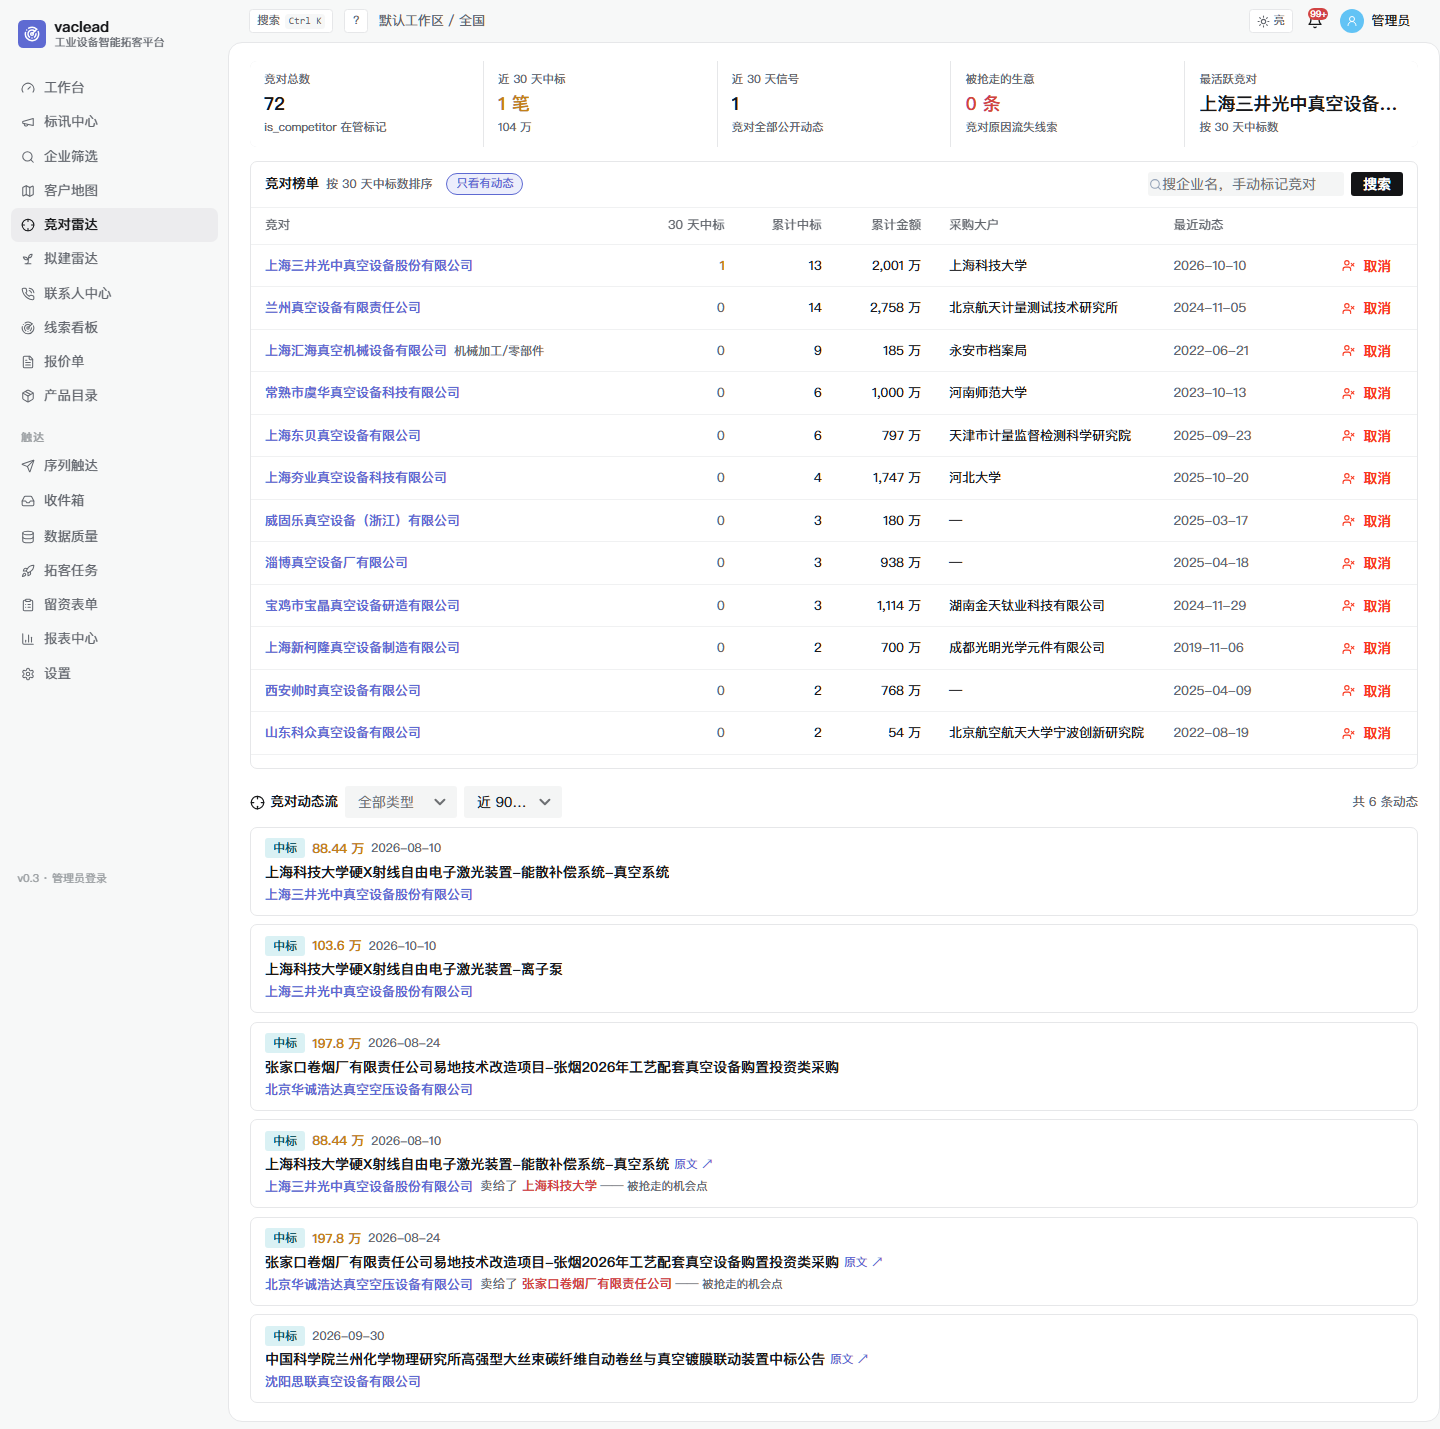
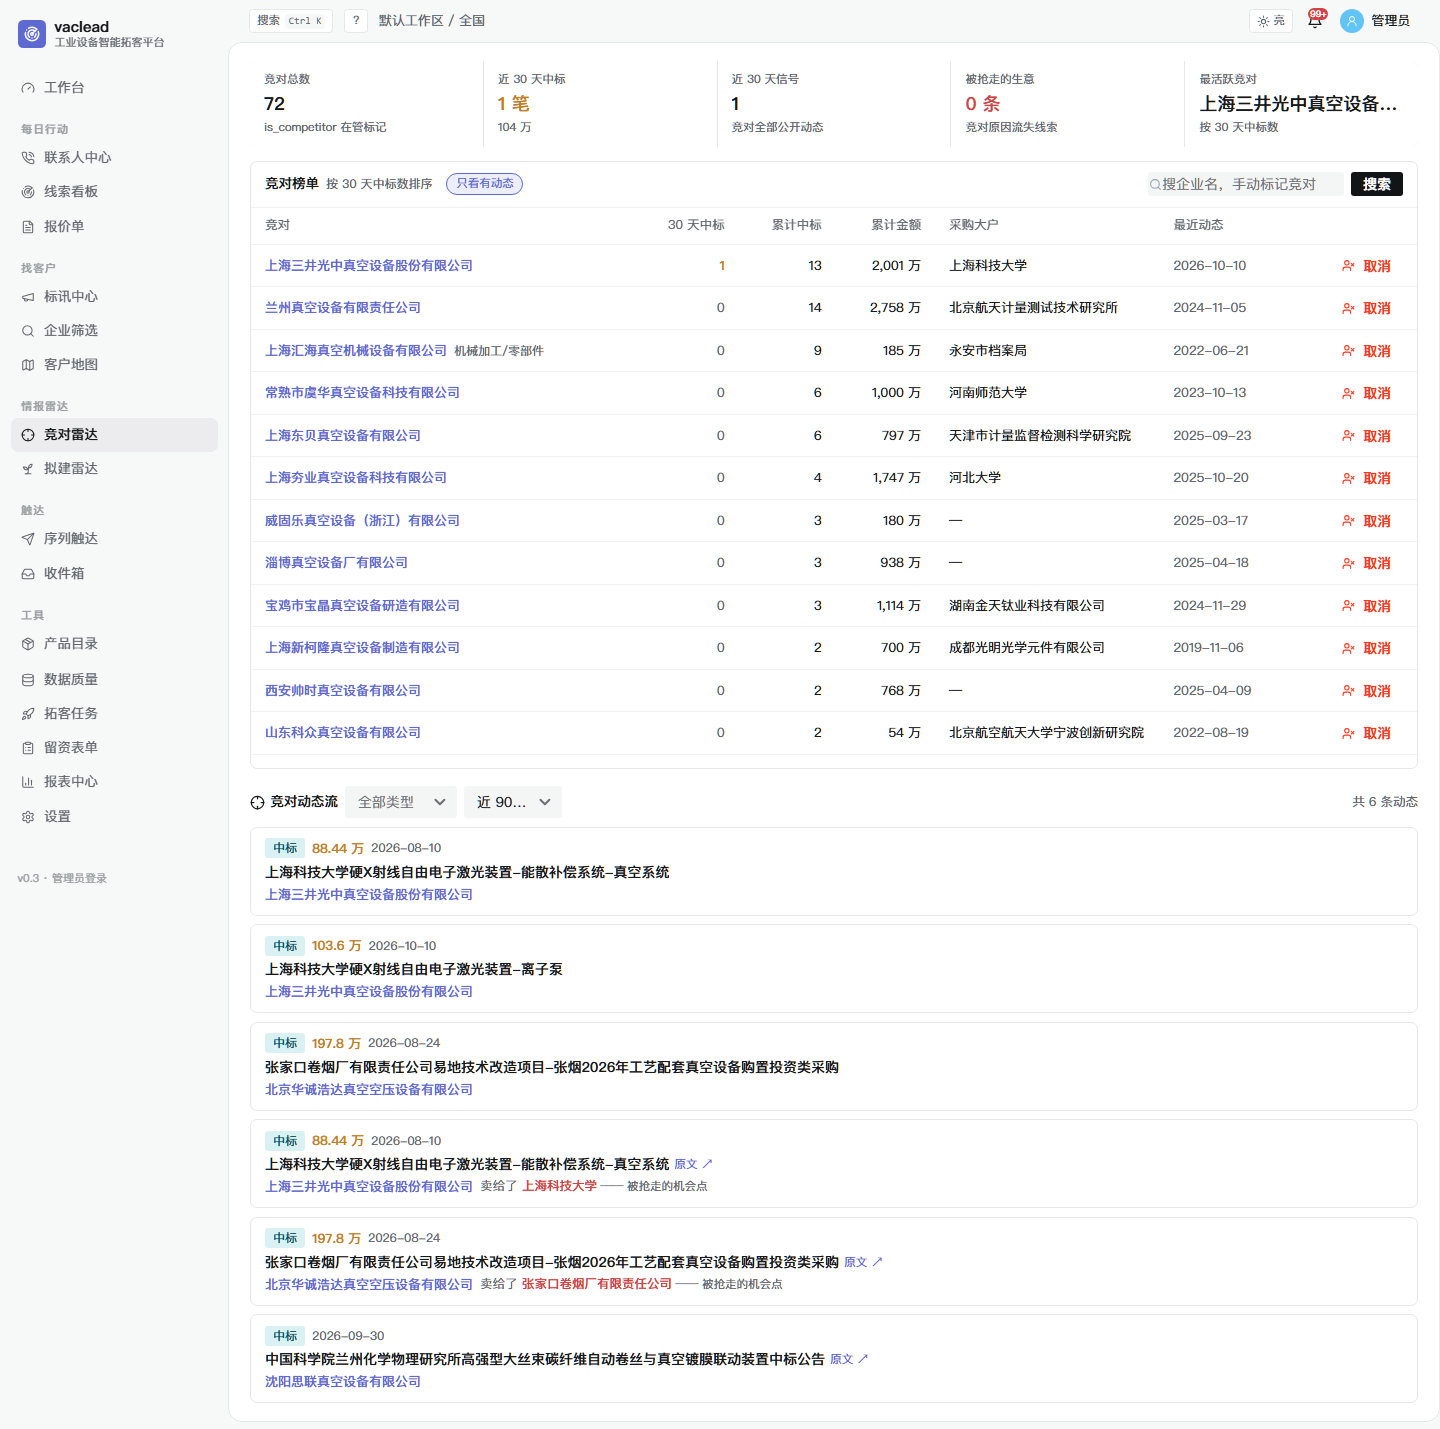
SPEC-CG 销售一日台轮: 系统为谁服务反思落地 三清单合一(今日作战/我的待办/待跟进事项合并为今日行动 my-day扩展7天内待办+约定回访到期源 勾选就地完成+快速添加) 导航按使用顺序6分组 块序重排任务在先分析下沉 E2E断言同步

Changed region(s): [[0.0, 0.0616, 0.0625, 0.585]]

diff --git a/frontend/app/page.tsx b/frontend/app/page.tsx
@@ -324,9 +324,7 @@ export default function DashboardPage() {
     { key: "recs", label: "今日推荐" },
     { key: "trend", label: "信号趋势" },
     { key: "analytics", label: "分析列（健康度/预测/漏斗/分布）" },
-    { key: "battle", label: "今日作战" },
-    { key: "todos", label: "我的待办" },
-    { key: "followups", label: "待跟进事项" },
+    { key: "battle", label: "今日行动" },
     { key: "signals", label: "最新信号" },
   ];
   const [dashHidden, setDashHidden] = useState<string[]>([]);
@@ -693,6 +691,69 @@ export default function DashboardPage() {
       </section>
       )}
 
+
+      {/* 今日行动（SPEC-CG CG1：my-day 优先级清单 + 待办勾选 + 快速添加——三清单合一） */}
+          {vis("battle") && (<>
+          <div className="mb-2 flex items-baseline justify-between">
+            <h2 className="text-[15px] font-medium text-[var(--ink)]">今日行动</h2>
+            <span className="text-[12px] text-[var(--muted)]">
+              {myDay.length > 0 ? `${myDay.length} 项待处理` : "今天没有必须处理的事"}
+            </span>
+          </div>
+          <div className="mb-2 flex gap-2">
+            <input
+              value={newTodo}
+              onChange={(e) => setNewTodo(e.target.value)}
+              onKeyDown={(e) => {
+                if (e.key === "Enter") void addTodo();
+              }}
+              placeholder="记一件事，如：周三前回访北大设备处…"
+              className="h-8 flex-1 rounded-lg border border-[var(--border)] bg-white px-3 text-[13px] outline-none focus:border-[var(--accent)]"
+            />
+            <Button size="small" theme="outline" onClick={() => void addTodo()}>
+              添加
+            </Button>
+          </div>
+          {myDay.length > 0 ? (
+            <div className="mb-3 space-y-1.5">
+              {myDay.slice(0, 12).map((m) => (
+                <div
+                  key={`${m.kind}-${m.id}`}
+                  className="flex items-center gap-2.5 rounded-lg border border-[var(--border)] bg-white px-3 py-2"
+                >
+                  {(m.kind === "overdue_todo" || m.kind === "due_today") && (
+                    <input
+                      type="checkbox"
+                      checked={false}
+                      onChange={() => void toggleTodo(m.id)}
+                      className="h-4 w-4 shrink-0 cursor-pointer accent-[var(--accent)]"
+                    />
+                  )}
+                  <span
+                    className={`shrink-0 rounded px-1.5 py-0.5 text-[10.5px] font-medium ${
+                      m.priority === 0
+                        ? "bg-[color:var(--negative)]/10 text-[var(--negative)]"
+                        : m.priority === 1
+                          ? "bg-[color:var(--accent)]/10 text-[var(--accent)]"
+                          : "bg-[var(--raised)] text-[var(--muted)]"
+                    }`}
+                  >
+                    {{ overdue_todo: "逾期", due_today: "今日", upcoming_todo: "后续", stale_intent: "久未跟", fresh_lead: "新线索", rule_hits: "自动化", due_soon_followup: "该回访" }[m.kind] ?? m.kind}
+                  </span>
+                  <span className="min-w-0 flex-1 truncate text-[13px] text-[var(--ink)]" title={m.title}>
+                    {m.title}
+                  </span>
+                  <span className="shrink-0 text-[11.5px] text-[var(--muted)]">{m.hint}</span>
+                </div>
+              ))}
+            </div>
+          ) : (
+            <div className="mb-3 rounded-lg border border-dashed border-[var(--border)] px-4 py-6 text-center text-[12.5px] text-[var(--muted)]">
+              今天没有必须处理的事 —— 打几个「今日推荐」里的电话，或在上面记一件事
+            </div>
+          )}
+          </>)}
+
       {/* 主趋势 + 右列（漏斗/来源） */}
       <div className="mt-5 grid grid-cols-1 items-start gap-6 xl:grid-cols-[1fr_360px]">
         {vis("trend") && (
@@ -864,143 +925,8 @@ export default function DashboardPage() {
       {/* 待跟进 + 最新信号 */}
       <div className="mt-5 grid grid-cols-1 gap-6 xl:grid-cols-[1fr_360px]">
         <div>
-          {/* 今日作战清单（SPEC-G G5：四源合并——逾期/到期/久未跟/高分新线索/规则命中） */}
-          {vis("battle") && (<>
-          <div className="mb-2 flex items-baseline justify-between">
-            <h2 className="text-[15px] font-medium text-[var(--ink)]">今日作战</h2>
-            <span className="text-[12px] text-[var(--muted)]">
-              {myDay.length > 0 ? `${myDay.length} 项待处理` : "今天没有必须处理的事"}
-            </span>
-          </div>
-          {myDay.length > 0 && (
-            <div className="mb-3 space-y-1.5">
-              {myDay.slice(0, 6).map((m) => (
-                <div
-                  key={`${m.kind}-${m.id}`}
-                  className="flex items-center gap-2.5 rounded-lg border border-[var(--border)] bg-white px-3 py-2"
-                >
-                  <span
-                    className={`shrink-0 rounded px-1.5 py-0.5 text-[10.5px] font-medium ${
-                      m.priority === 0
-                        ? "bg-[color:var(--negative)]/10 text-[var(--negative)]"
-                        : m.priority === 1
-                          ? "bg-[color:var(--accent)]/10 text-[var(--accent)]"
-                          : "bg-[var(--raised)] text-[var(--muted)]"
-                    }`}
-                  >
-                    {{ overdue_todo: "逾期", due_today: "今日", stale_intent: "久未跟", fresh_lead: "新线索", rule_hits: "自动化" }[m.kind] ?? m.kind}
-                  </span>
-                  <span className="min-w-0 flex-1 truncate text-[13px] text-[var(--ink)]" title={m.title}>
-                    {m.title}
-                  </span>
-                  <span className="shrink-0 text-[11.5px] text-[var(--muted)]">{m.hint}</span>
-                </div>
-              ))}
-            </div>
-          )}
-          </>)}
 
-          {vis("todos") && (<>
-          <div className="mb-2 flex items-baseline justify-between">
-            <h2 className="text-[15px] font-medium text-[var(--ink)]">我的待办</h2>
-            <span className="text-[12px] text-[var(--muted)]">
-              {overdue.length > 0 && (
-                <span className="mr-2 text-[var(--negative)]">逾期 {overdue.length}</span>
-              )}
-              {dueToday.length > 0 && <span className="mr-2">今日 {dueToday.length}</span>}
-              后续 {upcoming.length}
-            </span>
-          </div>
-          <div className="mb-2 flex gap-2">
-            <input
-              value={newTodo}
-              onChange={(e) => setNewTodo(e.target.value)}
-              onKeyDown={(e) => {
-                if (e.key === "Enter") void addTodo();
-              }}
-              placeholder="新增待办，如：周三前回访北大设备处…"
-              className="h-8 flex-1 rounded-lg border border-[var(--border)] bg-white px-3 text-[13px] outline-none focus:border-[var(--accent)]"
-            />
-            <Button size="small" theme="outline" onClick={() => void addTodo()}>
-              添加
-            </Button>
-          </div>
-          <div className="mb-5 max-h-[300px] space-y-1.5 overflow-auto">
-            {openTodos.length === 0 && (
-              <div className="rounded-lg border border-dashed border-[var(--border)] px-4 py-6 text-center text-[12.5px] text-[var(--muted)]">
-                暂无待办 —— 自动化规则「自动建待办」会在这里出现
-              </div>
-            )}
-            {[...overdue, ...dueToday, ...upcoming].slice(0, 12).map((t) => (
-              <div
-                key={t.id}
-                className="flex items-center gap-2.5 rounded-lg border border-[var(--border)] bg-white px-3 py-2"
-              >
-                <input
-                  type="checkbox"
-                  checked={false}
-                  onChange={() => void toggleTodo(t.id)}
-                  className="h-4 w-4 cursor-pointer accent-[var(--accent)]"
-                />
-                <span className="min-w-0 flex-1 truncate text-[13px] text-[var(--ink)]" title={t.title}>
-                  {t.title}
-                </span>
-                {t.source === "automation" && (
-                  <span className="shrink-0 rounded bg-[color:var(--accent)]/10 px-1.5 py-0.5 text-[10.5px] text-[var(--accent)]">
-                    自动
-                  </span>
-                )}
-                {t.due_date && (
-                  <span
-                    className={`shrink-0 text-[11.5px] tabular-nums ${
-                      t.due_date < todayStr ? "font-medium text-[var(--negative)]" : "text-[var(--muted)]"
-                    }`}
-                  >
-                    {t.due_date.slice(5)}
-                  </span>
-                )}
-              </div>
-            ))}
-          </div>
-          </>)}
 
-          {vis("followups") && (<>
-          <div className="mb-2 flex items-baseline justify-between">
-            <h2 className="text-[15px] font-medium text-[var(--ink)]">待跟进事项</h2>
-            <button
-              onClick={() => router.push("/leads")}
-              className="flex cursor-pointer items-center gap-1 border-0 bg-transparent p-0 text-[13px] text-[var(--accent)] hover:underline"
-            >
-              全部线索 <ArrowRight size={12} />
-            </button>
-          </div>
-          <Table<DashboardData["pending_followups"][number]>
-            rowKey="lead_id"
-            size="middle"
-            loading={loading}
-            dataSource={data?.pending_followups ?? []}
-            pagination={false}
-            empty="暂无待跟进 —— 从企业筛选页把高分客户转为线索"
-            columns={[
-              {
-                title: "企业",
-                dataIndex: "enterprise_name",
-                render: (v: string) => <span className="font-medium text-[var(--ink)]">{v}</span>,
-              },
-              {
-                title: "下一步",
-                dataIndex: "next_action",
-                render: (v: string) => v || <span className="text-[#9ca0a3]">待规划</span>,
-              },
-              {
-                title: "约定时间",
-                dataIndex: "next_time",
-                width: 150,
-                render: (v: string) => (v ? String(v).slice(0, 16).replace("T", " ") : "—"),
-              },
-            ]}
-          />
-          </>)}
         </div>
 
         {vis("signals") && (

diff --git a/frontend/components/AppShell.tsx b/frontend/components/AppShell.tsx
@@ -34,18 +34,23 @@ import { api, getToken, logout } from "@/lib/api";
 import { useRouter as useNextRouter } from "next/navigation";
 import { BRAND, PAGE_TITLES } from "@/lib/theme";
 
-const NAV = [
-  { href: "/", label: "工作台", icon: Gauge },
-  { href: "/signals", label: "标讯中心", icon: Megaphone },
-  { href: "/enterprises", label: "企业筛选", icon: Search },
-  { href: "/map", label: "客户地图", icon: Map },
-  { href: "/competitors", label: "竞对雷达", icon: Crosshair },
-  { href: "/proposals", label: "拟建雷达", icon: Sprout },
+// SPEC-CG 导航分组：按"销售一天的使用顺序"组织——任务在先，情报在后
+const NAV = [{ href: "/", label: "工作台", icon: Gauge }];
+const DAILY_NAV = [
   { href: "/contacts", label: "联系人中心", icon: PhoneCall },
   { href: "/leads", label: "线索看板", icon: Radar },
   { href: "/quotes", label: "报价单", icon: FileText },
-  { href: "/products", label: "产品目录", icon: Package },
 ];
+const FIND_NAV = [
+  { href: "/signals", label: "标讯中心", icon: Megaphone },
+  { href: "/enterprises", label: "企业筛选", icon: Search },
+  { href: "/map", label: "客户地图", icon: Map },
+];
+const RADAR_NAV = [
+  { href: "/competitors", label: "竞对雷达", icon: Crosshair },
+  { href: "/proposals", label: "拟建雷达", icon: Sprout },
+];
+const TOOL_NAV = [{ href: "/products", label: "产品目录", icon: Package }];
 
 /** SPEC-J J4 触达组 */
 const OUTREACH_NAV = [
@@ -438,7 +443,11 @@ export default function AppShell({ children }: { children: React.ReactNode }) {
 
   const navSections: { label: string | null; items: typeof NAV }[] = [
     { label: null, items: NAV },
+    { label: "每日行动", items: DAILY_NAV },
+    { label: "找客户", items: FIND_NAV },
+    { label: "情报雷达", items: RADAR_NAV },
     { label: "触达", items: OUTREACH_NAV },
+    { label: "工具", items: TOOL_NAV },
   ];
   if (role === "admin") navSections.push({ label: null, items: ADMIN_NAV });
 

diff --git a/frontend/e2e/journey.spec.ts b/frontend/e2e/journey.spec.ts
@@ -25,7 +25,7 @@ test("完整销售旅程", async ({ page }) => {
   await login(page);
   await page.goto("/");
   await expect(page.getByRole("heading", { name: "工作台" })).toBeVisible();
-  await expect(page.getByRole("heading", { name: "今日作战" })).toBeVisible();
+  await expect(page.getByRole("heading", { name: "今日行动" })).toBeVisible();
 
   // 2) 企业页 → 快捷筛选"有联系电话"（seed：2 家有联系人，1 家没有）
   await page.goto("/enterprises");

diff --git a/frontend/e2e/dailyflow.spec.ts b/frontend/e2e/dailyflow.spec.ts
@@ -11,7 +11,7 @@ test("推荐卡快标转线索日活流", async ({ page }) => {
   await page.waitForURL("**/");
 
   // 推荐卡可见（种子企业有电话+未在管 → 进推荐）
-  const recSection = page.locator("text=今日推荐");
+  const recSection = page.getByRole("heading", { name: /今日推荐/ });
   await expect(recSection).toBeVisible({ timeout: 10000 });
 
   // 快标「接通」（种子推荐项应有快标按钮或状态 Tag）

diff --git a/backend/app/api/analytics.py b/backend/app/api/analytics.py
@@ -537,5 +537,39 @@ def my_day(
             "title": f"今日自动化命中 {rule_hits} 次", "hint": "去通知铃铛看明细",
         })
 
+    # ⑥ 7 天内待办（SPEC-CG CG1：并入统一清单，替代独立"我的待办"卡）
+    week_later = (date.today() + timedelta(days=7)).isoformat()
+    upcoming = (
+        session.query(Todo)
+        .filter(Todo.done == 0, Todo.due_date > today, Todo.due_date <= week_later)
+        .order_by(Todo.due_date.asc())
+        .all()
+    )
+    for t in upcoming:
+        items.append({
+            "priority": 2, "kind": "upcoming_todo", "id": t.id,
+            "title": t.title, "hint": f"{t.due_date} 到期",
+        })
+
+    # ⑦ 约定回访到期（有 next_time 的线索，3 天内=该行动了）
+    soon = (date.today() + timedelta(days=3)).isoformat()
+    followups = (
+        session.query(Lead, Enterprise.name)
+        .join(Enterprise, Enterprise.id == Lead.enterprise_id)
+        .filter(
+            Lead.status.in_(("following", "intent")),
+            Lead.next_time.is_not(None),
+            Lead.next_time <= soon,
+        )
+        .limit(20)
+        .all()
+    )
+    for ld, ename in followups:
+        items.append({
+            "priority": 1, "kind": "due_soon_followup", "id": ld.id,
+            "title": f"回访 {ename}（{ld.next_action or '待规划'}）",
+            "hint": f"约定 {str(ld.next_time or '')[:10]}",
+        })
+
     items.sort(key=lambda x: x["priority"])
     return {"items": items[:20], "today": today}

diff --git a/docs/WORKLOG.md b/docs/WORKLOG.md
@@ -2266,3 +2266,20 @@ chips（点击筛选，不占竖空间）③列表改单行式卡片（日期列
 替换模板引用了不存在的 dwin 变量（build 拦下改用 d90/d30）。
 **门禁**：build + E2E 8 全绿；复验截图确认新布局（信息密度与可扫读性
 显著改善）。
+
+
+## 2026-11-07 · W59 · SPEC-CG 销售一日台轮（用户："系统不好用，想想为谁服务"）
+
+**产品级反思落地**：系统为两类人服务——昊志销售（每天：打谁→记结果→
+跟客户）+ 老板（战场态势）。旧 IA 是数据视角（19 个平铺入口），不是
+任务视角。**三件事**：
+①**三清单合一**：今日作战/我的待办/待跟进事项 三块重叠清单合并为
+「今日行动」单一卡——my-day 骨架扩展两源（⑥7 天内待办 ⑦约定回访
+3 天内到期）+ 待办勾选就地完成 + 快速添加输入框；删两块冗余。
+②**导航按使用顺序分组**：工作台 → 每日行动（联系人/线索/报价单）→
+找客户（标讯/筛选/地图）→ 情报雷达（竞对/拟建）→ 触达 → 工具 →
+管理员组——销售从 19 个平铺入口变成 6 个有名字的分组。
+③**块序重排**：晨检行 → 今日行动 → 今日推荐 → 最新信号 → 趋势/分析
+（分析类下沉）。
+E2E 两处断言同步（今日作战→今日行动、text=歧义改 heading role）。
+**门禁**：pytest 335 + build + E2E 8 全绿。
